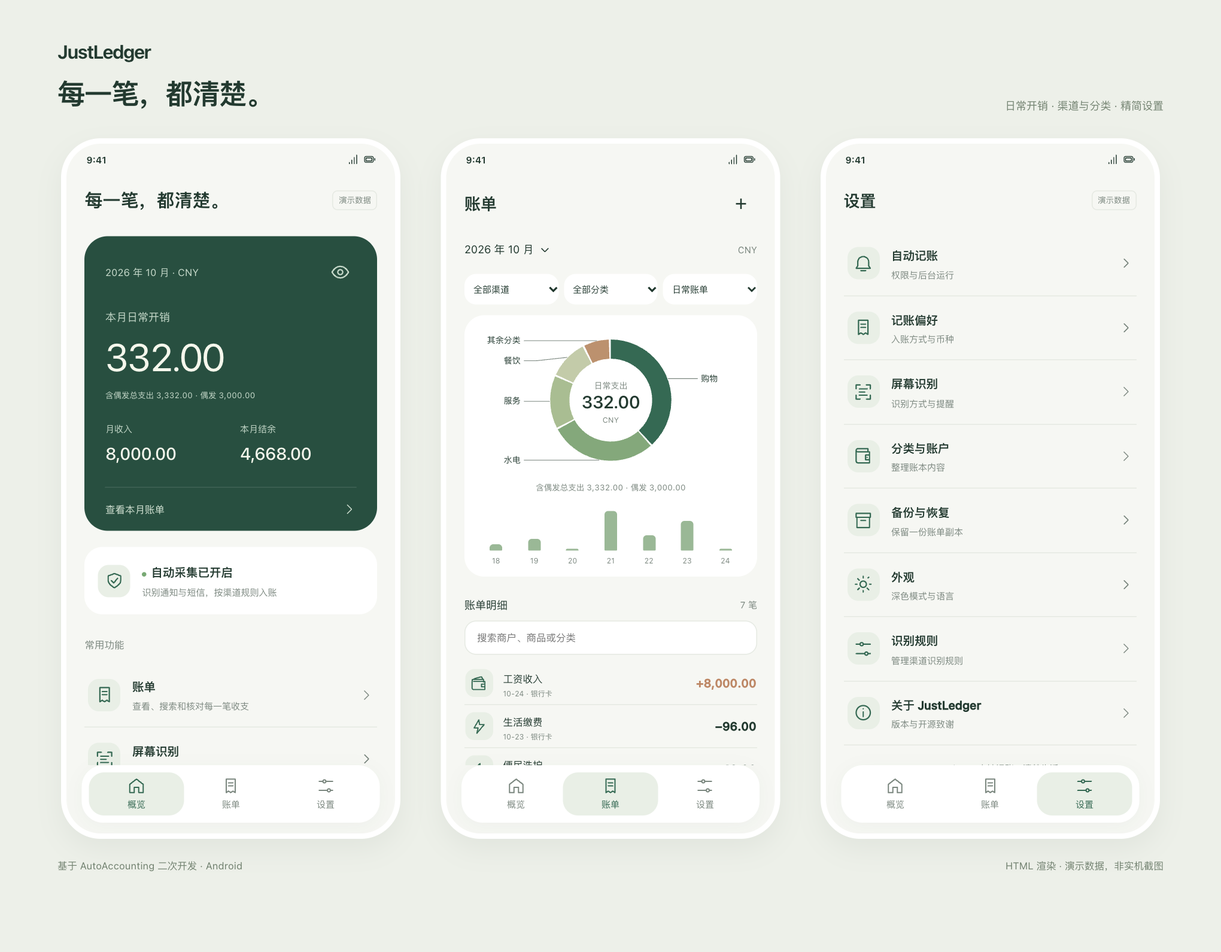
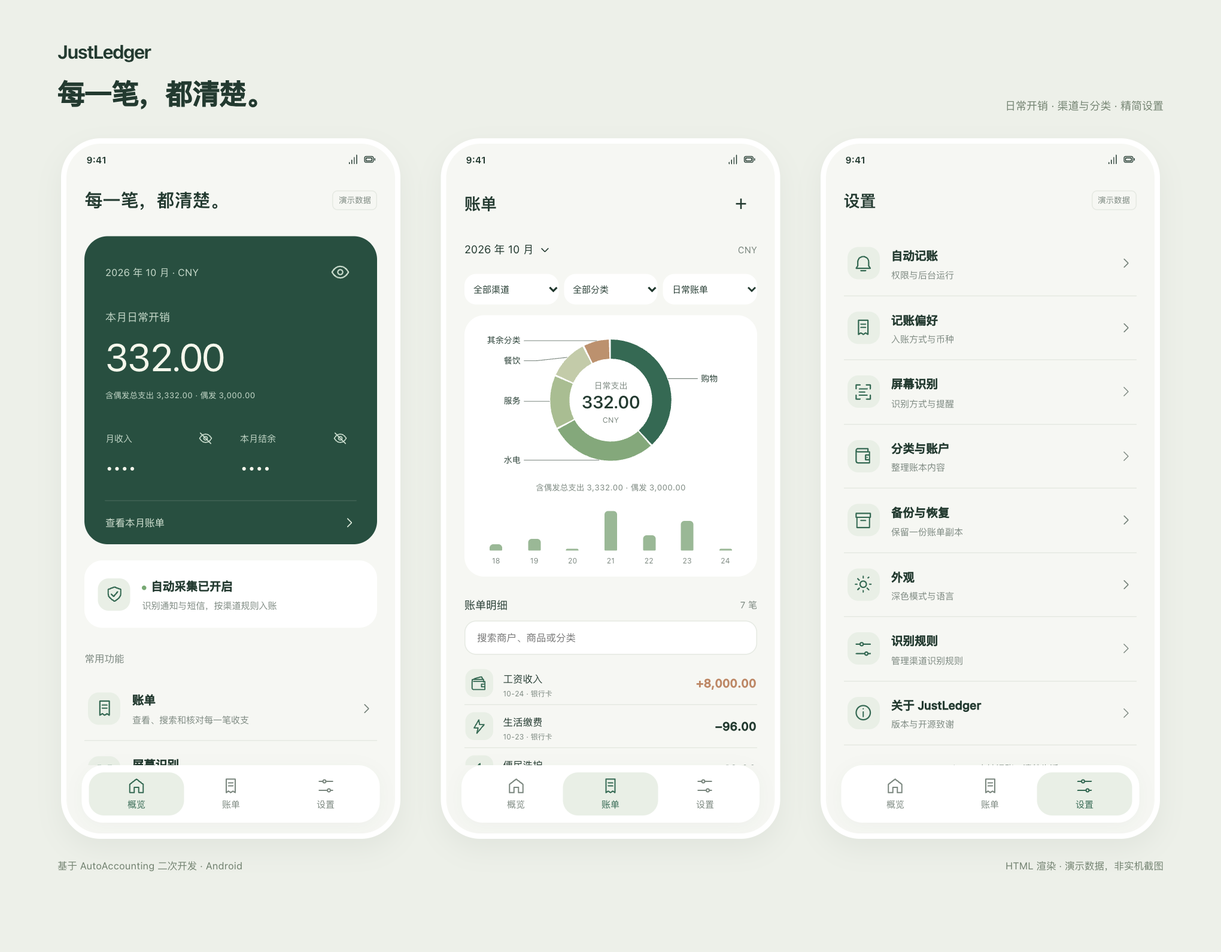
默认隐藏首页收入与结余，支持独立点眼睛查看
- 收入和结余各增加独立眼睛按钮，离开首页或重新进入后恢复隐藏。
- 支出金额保留单独显示控制，避免查看某一项时同时展示其他金额。
- 同步 HTML 演示、README 配图与更新日志，发布正式版本 0.1.2。
- 通过模拟器生命周期和独立开关验证，以及 HTML 交互回归检查。

diff --git a/design/preview.html b/design/preview.html
@@ -11,6 +11,7 @@
 
 .filters{display:flex;gap:6px;margin-bottom:12px}.filters select{min-width:0;flex:1;border:0;border-radius:13px;padding:10px 6px;background:var(--card);color:var(--ink);font-size:10px;cursor:pointer}.pie-chart{display:block;width:100%;height:auto;overflow:visible}.pie-slice,.pie-center{cursor:pointer}.pie-slice circle{transition:stroke-width .2s,transform .2s}.pie-slice:focus-visible{outline:none}.pie-slice:focus-visible circle{filter:brightness(1.25)}.inclusive{font-size:9px;color:var(--muted);text-align:center;margin:3px 0 0;font-variant-numeric:tabular-nums}.hero-inclusive{text-align:left;color:#c6d9ca;margin:-16px 0 24px;white-space:nowrap}.occasional-row{padding:10px 0}.home-title{font-size:20px;margin-bottom:25px}.chart-card{padding-top:7px}.transaction{min-height:48px;padding:6px 1px}.gallery-stage .home-title{margin-bottom:25px}
 .gallery-stage .sheet[data-kind=candidate] .edit-row{min-height:37px}.gallery-stage .sheet[data-kind=candidate] .edit-amount{margin:10px 0 12px}.gallery-stage .sheet[data-kind=candidate] .remark{margin:8px 0}.gallery-stage .sheet[data-kind=candidate] .details{margin:6px 0}.gallery-stage .sheet[data-kind=candidate] .candidate{margin-bottom:8px}
+.metric-label{display:flex;align-items:center;justify-content:space-between;gap:4px}.metric-label .icon-button{width:36px;height:36px;color:#c6d9ca}.metric-label .ico{width:16px;height:16px}.hero-grid b{margin-top:0}
 </style>
 </head>
 <body>
@@ -20,6 +21,7 @@
 <symbol id="settings" viewBox="0 0 24 24"><path d="M3 6h5m4 0h9M3 18h11m4 0h3"/><circle cx="10" cy="6" r="2"/><circle cx="16" cy="18" r="2"/></symbol>
 <symbol id="arrow" viewBox="0 0 24 24"><path d="m9 5 7 7-7 7"/></symbol>
 <symbol id="down" viewBox="0 0 24 24"><path d="m6 9 6 6 6-6"/></symbol>
+<symbol id="eye-off" viewBox="0 0 24 24"><path d="M2 12Q6 5 12 5Q18 5 22 12Q18 19 12 19Q6 19 2 12M3 3l18 18"/><circle cx="12" cy="12" r="3"/></symbol>
 <symbol id="eye" viewBox="0 0 24 24"><path d="M2 12Q6 5 12 5t10 7q-4 7-10 7T2 12Z"/><circle cx="12" cy="12" r="3"/></symbol>
 <symbol id="check" viewBox="0 0 24 24"><path d="M12 3 4 6v6c0 5 8 9 8 9s8-4 8-9V6Z"/><path d="m8 12 3 3 5-6"/></symbol>
 <symbol id="cup" viewBox="0 0 24 24"><path d="M5 8h12v7a5 5 0 0 1-5 5h-2a5 5 0 0 1-5-5ZM17 9h2a3 3 0 0 1 0 6h-2M8 3v2M12 2v3M3 22h16"/></symbol>
@@ -91,14 +93,14 @@ const initialBills=[
 const instances=[];
 function makeDevice(host,page='overview',modal=''){
  const el=document.createElement('section');el.className='device';el.setAttribute('aria-label','JustLedger 演示界面');host.append(el);
- const state={page,channel:'全部',category:'全部',scope:'日常',slice:'',query:'',hidden:false,dark:false,bills:structuredClone(initialBills),modal:'',draft:null,receiptIndex:0,receipts:[1,2],switches:{auto:true,repeat:true,backtap:true,screen:true,ai:true,priority:true,success:true},returnModal:'editor'};
+ const state={page,channel:'全部',category:'全部',scope:'日常',slice:'',query:'',hidden:false,incomeVisible:false,balanceVisible:false,dark:false,bills:structuredClone(initialBills),modal:'',draft:null,receiptIndex:0,receipts:[1,2],switches:{auto:true,repeat:true,backtap:true,screen:true,ai:true,priority:true,success:true},returnModal:'editor'};
  const app={el,state};instances.push(app);render(app);if(modal)openModal(app,modal);bind(app);return app;
 }
 const occasional=b=>b.type==='支出'&&(b.occasional??b.category==='房租');
 function filtered(app,withScope=true){const s=app.state;return s.bills.filter(b=>(s.channel==='全部'||b.channel===s.channel)&&(s.category==='全部'||b.category===s.category)&&(!withScope||s.scope==='全部'||(s.scope==='偶发'?occasional(b):!occasional(b))))}
 function sums(rows){return {expense:rows.filter(x=>x.type==='支出').reduce((s,x)=>s+x.amount,0),income:rows.filter(x=>x.type==='收入').reduce((s,x)=>s+x.amount,0)}}
 function setting(label,desc,symbol,action){return `<button class="setting" data-action="${action}"><span class="tile">${icon(symbol)}</span><span><strong>${label}</strong><small>${desc}</small></span>${icon('arrow','tail')}</button>`}
-function overview(app){const s=app.state,t=sums(s.bills),daily=sums(s.bills.filter(b=>!occasional(b))).expense,show=n=>s.hidden?'••••':money(n);return `<div class="top home-title">每一笔，都清楚。<span class="demo-label">演示数据</span></div><div class="hero"><div class="hero-head"><span>2026 年 10 月 · CNY</span><button class="icon-button" data-action="privacy" aria-label="${s.hidden?'显示':'隐藏'}金额" aria-pressed="${s.hidden}">${icon('eye')}</button></div><div class="label">本月日常开销</div><div class="total">${show(daily)}</div><div class="inclusive hero-inclusive">含偶发总支出 ${show(t.expense)} · 偶发 ${show(t.expense-daily)}</div><div class="hero-grid"><div><small>月收入</small><b>${show(t.income)}</b></div><div><small>本月结余</small><b>${show(t.income-t.expense)}</b></div></div><button class="hero-link" data-page="bills">查看本月账单${icon('arrow')}</button></div><button class="service-state" data-action="capture"><span class="tile">${icon('check')}</span><span><strong><i class="dot"></i>自动采集已开启</strong><small>识别通知与短信，按渠道规则入账</small></span></button><div class="caption">常用功能</div>${setting('账单','查看、搜索和核对每一笔收支','bill','bills')}${setting('屏幕识别','轻敲背面，补充订单信息','scan','screen')}<p class="quiet">记录留在本机，生活留给自己。</p>`}
+function overview(app){const s=app.state,t=sums(s.bills),daily=sums(s.bills.filter(b=>!occasional(b))).expense,show=n=>s.hidden?'••••':money(n);return `<div class="top home-title">每一笔，都清楚。<span class="demo-label">演示数据</span></div><div class="hero"><div class="hero-head"><span>2026 年 10 月 · CNY</span><button class="icon-button" data-action="privacy" aria-label="${s.hidden?'显示':'隐藏'}支出金额" aria-pressed="${!s.hidden}">${icon(s.hidden?'eye-off':'eye')}</button></div><div class="label">本月日常开销</div><div class="total">${show(daily)}</div><div class="inclusive hero-inclusive">含偶发总支出 ${show(t.expense)} · 偶发 ${show(t.expense-daily)}</div><div class="hero-grid"><div><div class="metric-label"><small>月收入</small><button class="icon-button" data-action="income-privacy" aria-label="${s.incomeVisible?'隐藏':'显示'}月收入金额" aria-pressed="${s.incomeVisible}">${icon(s.incomeVisible?'eye':'eye-off')}</button></div><b class="income-amount">${s.incomeVisible?money(t.income):'••••'}</b></div><div><div class="metric-label"><small>本月结余</small><button class="icon-button" data-action="balance-privacy" aria-label="${s.balanceVisible?'隐藏':'显示'}本月结余金额" aria-pressed="${s.balanceVisible}">${icon(s.balanceVisible?'eye':'eye-off')}</button></div><b class="balance-amount">${s.balanceVisible?money(t.income-t.expense):'••••'}</b></div></div><button class="hero-link" data-page="bills">查看本月账单${icon('arrow')}</button></div><button class="service-state" data-action="capture"><span class="tile">${icon('check')}</span><span><strong><i class="dot"></i>自动采集已开启</strong><small>识别通知与短信，按渠道规则入账</small></span></button><div class="caption">常用功能</div>${setting('账单','查看、搜索和核对每一笔收支','bill','bills')}${setting('屏幕识别','轻敲背面，补充订单信息','scan','screen')}<p class="quiet">记录留在本机，生活留给自己。</p>`}
 function pie(app,expenses){
  const s=app.state,total=sums(expenses).expense;
  let cats=[...new Set(expenses.map(b=>b.category))].map(name=>({name,sum:expenses.filter(b=>b.category===name).reduce((n,b)=>n+b.amount,0)})).sort((a,b)=>b.sum-a.sum);
@@ -129,21 +131,23 @@ function paintModal(app){$('.overlay',app.el)?.remove();const s=app.state,kind=s
  else if(kind==='recording'){title='记账偏好';body=switches(app,[['auto','自动入账','开启后直接入账并提醒；关闭后先核对'],['repeat','重复识别','开启后合并同一交易的多渠道记录']])+'<p class="hint">金额不单独判重，疑似记录需你确认。</p>'}
  else if(kind==='capture'){title='自动记账';body=['通知读取','短信接收','无障碍屏幕识别','悬浮窗提醒'].map((x,i)=>`<div class="switch-row"><span><strong>${x}</strong><small>${['读取完整付款通知并匹配渠道规则','接收新短信，需对应银行规则','用于读取当前页面及截图 OCR','入账后展示待确认提醒'][i]}</small></span><span style="color:var(--green);margin-left:auto;font-size:11px">已开启</span></div>`).join('')+'<p class="hint">演示状态。实际效果取决于手机权限、消息内容和规则适配。</p>'}
  else if(kind==='catalog'){title='分类与账户';body=setting('支出分类','23 个常用分类，含房租','bag','catalog-categories')+setting('账户','按实际付款账户整理','wallet','accounts')+setting('账本','默认本地账本','bill','books')}
- else {const map={backup:['备份与恢复','账单保存在手机应用私有目录。\n请在 App 内导出备份；卸载前先备份。'],rules:['识别规则','管理通知与短信渠道规则。\n本人理财本金赎回不记账，单独到账的收益可识别。'],remembered:['页面识别偏好','记住的是页面类型，用于自动触发 OCR。\n同一订单的重复识别由独立去重机制处理。'],accounts:['账户','示例账户：零钱、余额、生活卡。\n账户名称只是记账标签，不连接银行卡。'],books:['账本','当前为默认本地账本。'],about:['关于 JustLedger','JustLedger 0.1.1\n基于 AutoAccounting 二次开发。\n遵循 GPL-3.0，保留上游版权。\n这是 HTML 演示，非实机截图。']};const info=map[kind]||['说明','当前页面使用演示数据。'];title=info[0];body=`<p class="hint" style="white-space:pre-line">${esc(info[1])}</p>`}
+ else {const map={backup:['备份与恢复','账单保存在手机应用私有目录。\n请在 App 内导出备份；卸载前先备份。'],rules:['识别规则','管理通知与短信渠道规则。\n本人理财本金赎回不记账，单独到账的收益可识别。'],remembered:['页面识别偏好','记住的是页面类型，用于自动触发 OCR。\n同一订单的重复识别由独立去重机制处理。'],accounts:['账户','示例账户：零钱、余额、生活卡。\n账户名称只是记账标签，不连接银行卡。'],books:['账本','当前为默认本地账本。'],about:['关于 JustLedger','JustLedger 0.1.2\n基于 AutoAccounting 二次开发。\n遵循 GPL-3.0，保留上游版权。\n这是 HTML 演示，非实机截图。']};const info=map[kind]||['说明','当前页面使用演示数据。'];title=info[0];body=`<p class="hint" style="white-space:pre-line">${esc(info[1])}</p>`}
  sheet.innerHTML=(header?`<div class="sheet-head"><span>${title}</span><button class="icon-button" data-action="close" aria-label="关闭">${icon('close')}</button></div>`:'')+body;
 }
 function stash(app){const s=app.state,form=$('.sheet',app.el);if(!s.draft||!form||!$('input[name=amount]',form))return;const b=s.draft;for(const k of ['merchant','item','channel','remark','type']){const el=$(`[name=${k}]`,form);if(el)b[k]=el.value}b.amount=Number($('[name=amount]',form).value);const date=$('[name=date]',form).value;if(date){b.day=Number(date.slice(8,10));b.time=date.slice(11).padEnd(8,':00')}}
 function toast(app,text){$('.toast',app.el)?.remove();const t=document.createElement('div');t.className='toast';t.setAttribute('role','status');t.textContent=text;app.el.append(t);setTimeout(()=>t.remove(),2600)}
 function bind(app){app.el.addEventListener('change',e=>{if(e.target.dataset.filter){app.state[e.target.dataset.filter]=e.target.value;app.state.slice='';render(app)}else if(e.target.name==='type'){stash(app);paintModal(app)}});let hold,pressStart,held=false;const stop=()=>clearTimeout(hold);app.el.addEventListener('pointerdown',e=>{const row=e.target.closest('[data-bill]');held=false;if(!row||e.button!==0)return;pressStart=[e.clientX,e.clientY];hold=setTimeout(()=>{held=true;openModal(app,'delete',app.state.bills.find(x=>x.id===Number(row.dataset.bill)))},600)});app.el.addEventListener('pointermove',e=>{if(pressStart&&Math.hypot(e.clientX-pressStart[0],e.clientY-pressStart[1])>8)stop()});for(const ev of ['pointerup','pointercancel','pointerleave'])app.el.addEventListener(ev,stop);app.el.addEventListener('contextmenu',e=>{const row=e.target.closest('[data-bill]');if(row){e.preventDefault();stop();openModal(app,'delete',app.state.bills.find(x=>x.id===Number(row.dataset.bill)))}});app.el.addEventListener('input',e=>{if(e.target.matches('.search')){app.state.query=e.target.value;$('.transactions',app.el).innerHTML=billRows(app);$('.row-count',app.el).textContent=filtered(app).filter(b=>[b.merchant,b.item,b.category].join(' ').includes(app.state.query)).length+' 笔'}});let touchX=0;app.el.addEventListener('touchstart',e=>{touchX=e.touches[0].clientX},{passive:true});app.el.addEventListener('touchend',e=>{if(app.state.modal!=='receipt')return;const delta=e.changedTouches[0].clientX-touchX;if(Math.abs(delta)>55){app.state.receiptIndex=Math.max(0,Math.min(app.state.receipts.length-1,app.state.receiptIndex+(delta<0?1:-1)));paintModal(app)}},{passive:true});app.el.addEventListener('click',e=>{if(held){held=false;return}const slice=e.target.closest('[data-slice]');if(slice){app.state.slice=app.state.slice===slice.dataset.slice?'':slice.dataset.slice;const scroll=$('.viewport',app.el).scrollTop;render(app);$('.viewport',app.el).scrollTop=scroll;return}const b=e.target.closest('button');if(!b)return;const s=app.state;
- if(b.dataset.page){s.page=b.dataset.page;s.modal='';render(app);return}
+ if(b.dataset.page){s.incomeVisible=false;s.balanceVisible=false;s.page=b.dataset.page;s.modal='';render(app);return}
  if(b.dataset.channel){s.channel=b.dataset.channel;render(app);return}
  if(b.dataset.bill){openModal(app,'editor',s.bills.find(x=>x.id===Number(b.dataset.bill)));return}
  if(b.dataset.switch){s.switches[b.dataset.switch]=!s.switches[b.dataset.switch];paintModal(app);return}
  if(b.dataset.category){s.draft.category=b.dataset.category;paintModal(app);return}
  const a=b.dataset.action;if(!a)return;
  if(a==='toggle-occasional'){stash(app);s.draft.occasional=!occasional(s.draft);paintModal(app)}
+ else if(a==='income-privacy'){s.incomeVisible=!s.incomeVisible;render(app)}
+ else if(a==='balance-privacy'){s.balanceVisible=!s.balanceVisible;render(app)}
  else if(a==='privacy'){s.hidden=!s.hidden;render(app)}
- else if(a==='bills'){s.page='bills';render(app)}
+ else if(a==='bills'){s.incomeVisible=false;s.balanceVisible=false;s.page='bills';render(app)}
  else if(a==='theme'){s.dark=!s.dark;render(app)}
  else if(a==='close'){s.modal='';paintModal(app)}
  else if(a==='new')openModal(app,'editor');
@@ -166,6 +170,7 @@ function bind(app){app.el.addEventListener('change',e=>{if(e.target.dataset.filt
 const gallery=new URLSearchParams(location.search).get('gallery');
 if(gallery){const titles=gallery==='recognition'?['信息不完整，也能补齐。','订单核对 · 入账确认 · AI 配置']:gallery==='occasional'?['日常与偶发，分开看。','开销筛选 · 分类点选 · 房租编辑']:['每一笔，都清楚。','日常开销 · 渠道与分类 · 精简设置'];$('#stage').className='gallery-stage';$('#stage').innerHTML=`<header class="gallery-header"><div><div class="brand">JustLedger</div><h1>${titles[0]}</h1></div><p>${titles[1]}</p></header><div class="gallery-grid"></div><footer class="gallery-caption"><span>基于 AutoAccounting 二次开发 · Android</span><span>HTML 渲染 · 演示数据，非实机截图</span></footer>`;const host=$('.gallery-grid');if(gallery==='recognition'){makeDevice(host,'bills','candidate');makeDevice(host,'overview','receipt');makeDevice(host,'settings','ai')}else if(gallery==='occasional'){const daily=makeDevice(host,'bills');const all=makeDevice(host,'bills');all.state.scope='全部';all.state.slice='房租';render(all);const edit=makeDevice(host,'bills');edit.state.scope='偶发';render(edit);openModal(edit,'editor',edit.state.bills.find(b=>b.id===8))}else{makeDevice(host,'overview');makeDevice(host,'bills');makeDevice(host,'settings')}}
 else{const app=makeDevice($('#mount'));$$('[data-demo]').forEach(b=>b.addEventListener('click',()=>{if(b.dataset.demo==='receipt'&&!app.state.receipts.length)app.state.receipts=[1,2];openModal(app,b.dataset.demo)}));$('#theme-toggle').addEventListener('click',()=>{app.state.dark=!app.state.dark;render(app)})}
+document.addEventListener('visibilitychange',()=>{if(document.hidden)for(const app of instances){app.state.incomeVisible=false;app.state.balanceVisible=false;if(app.state.page==='overview')render(app)}});
 window.JustLedgerPreview={instances,openModal,render};
 </script>
 </body></html>

diff --git a/app/src/main/java/net/ankio/auto/ui/fragment/components/MonthlyCardComponent.kt b/app/src/main/java/net/ankio/auto/ui/fragment/components/MonthlyCardComponent.kt
@@ -34,6 +34,8 @@ class MonthlyCardComponent(binding: CardMonthlyBinding) : BaseComponent<CardMont
     private var onNavigateToBills: (() -> Unit)? = null
     private var refreshJob: Job? = null
     private var totals: Map<String, Double>? = null
+    private var incomeVisible = false
+    private var balanceVisible = false
 
     fun setOnNavigateToBills(callback: () -> Unit) = apply {
         onNavigateToBills = callback
@@ -44,36 +46,50 @@ class MonthlyCardComponent(binding: CardMonthlyBinding) : BaseComponent<CardMont
         binding.privacyToggle.setOnClickListener {
             PrefManager.homePrivacyMode = !PrefManager.homePrivacyMode
             renderAmounts()
-            binding.privacyToggle.announceForAccessibility(context.getString(
-                if (PrefManager.homePrivacyMode) R.string.ledger_privacy_hidden
-                else R.string.ledger_privacy_visible
-            ))
         }
+        binding.incomePrivacyToggle.setOnClickListener {
+            incomeVisible = !incomeVisible
+            renderAmounts()
+        }
+        binding.balancePrivacyToggle.setOnClickListener {
+            balanceVisible = !balanceVisible
+            renderAmounts()
+        }
+        renderAmounts()
         binding.btnBills.setOnClickListener { onNavigateToBills?.invoke() }
         binding.btnSync.setOnClickListener { BillTool.syncBills() }
     }
 
     private fun renderAmounts() {
         val stats = totals
-        fun amount(value: Double): String = when {
-            PrefManager.homePrivacyMode -> "••••"
+        fun amount(value: Double, hidden: Boolean = PrefManager.homePrivacyMode): String = when {
+            hidden -> "••••"
             stats == null -> "—"
             else -> BillTool.formatAmount(value)
         }
         val income = stats?.get("income") ?: 0.0
         val expense = stats?.get("expense") ?: 0.0
-        binding.tvIncomeAmount.text = amount(income)
+        binding.tvIncomeAmount.text = amount(income, !incomeVisible)
         binding.tvExpenseAmount.text = amount(expense)
         val totalExpense = stats?.get("totalExpense") ?: expense
         val occasional = stats?.get("occasionalExpense") ?: 0.0
         binding.totalExpenseHint.text = "含偶发总支出 ${amount(totalExpense)} · 偶发 ${amount(occasional)}"
         binding.totalExpenseHint.visibility = if (stats != null) View.VISIBLE else View.GONE
-        binding.tvBalanceAmount.text = amount(income - totalExpense)
-        binding.privacyToggle.isSelected = PrefManager.homePrivacyMode
+        binding.tvBalanceAmount.text = amount(income - totalExpense, !balanceVisible)
+        fun eye(button: com.google.android.material.button.MaterialButton, visible: Boolean, show: Int, hide: Int) {
+            button.isSelected = visible
+            button.contentDescription = context.getString(if (visible) hide else show)
+            button.setIconResource(if (visible) R.drawable.ledger_eye else R.drawable.ledger_eye_off)
+        }
+        eye(binding.privacyToggle, !PrefManager.homePrivacyMode, R.string.ledger_show_expense, R.string.ledger_hide_expense)
+        eye(binding.incomePrivacyToggle, incomeVisible, R.string.ledger_show_income, R.string.ledger_hide_income)
+        eye(binding.balancePrivacyToggle, balanceVisible, R.string.ledger_show_balance, R.string.ledger_hide_balance)
     }
 
     override fun onComponentResume() {
         super.onComponentResume()
+        incomeVisible = false
+        balanceVisible = false
         binding.btnSync.visibility = if (PrefManager.bookApp != BuildConfig.APPLICATION_ID) View.VISIBLE else View.GONE
         val now = Calendar.getInstance()
         val year = now.get(Calendar.YEAR)
@@ -94,6 +110,9 @@ class MonthlyCardComponent(binding: CardMonthlyBinding) : BaseComponent<CardMont
 
     override fun onComponentStop() {
         refreshJob?.cancel()
+        incomeVisible = false
+        balanceVisible = false
+        renderAmounts()
         super.onComponentStop()
     }
 

diff --git a/app/src/main/java/net/ankio/auto/utils/PrefManager.kt b/app/src/main/java/net/ankio/auto/utils/PrefManager.kt
@@ -888,7 +888,7 @@ object PrefManager {
         get() = getString("canary_warning_version", "")
         set(value) = putString("canary_warning_version", value)
 
-    /** 首页隐私模式 - 是否隐藏首页收支金额 */
+    /** 首页支出隐私模式；收入与结余仅在当前页面临时展示 */
     var homePrivacyMode: Boolean
         get() = getBoolean("home_privacy_mode", false)
         set(value) = putBoolean("home_privacy_mode", value)

diff --git a/tests/device/monthly_privacy.py b/tests/device/monthly_privacy.py
@@ -1,0 +1,64 @@
+"""Monthly income/balance privacy on an isolated emulator with completed onboarding.
+Requires ADB, ANDROID_SERIAL and adb forward tcp:52046 tcp:52045.
+Creates labelled income/expense fixtures; restores expense privacy and removes its fixtures.
+"""
+import time,unittest
+from ocr_enrichment import api
+from delete_confirmation import adb,tree,node,tap
+P='net.ankio.auto:id/'
+
+class MonthlyPrivacyTests(unittest.TestCase):
+ def setUp(self):
+  self.ids=[];self.mark='JL_PRIVACY_'+str(time.time_ns())
+  self.oldHidden=None
+  self.addCleanup(self.cleanup)
+  self.open(restart=True)
+  self.oldHidden=node(rid=P+'privacyToggle').get('content-desc')=='显示支出金额'
+  if self.oldHidden:self.click('privacyToggle')
+  for kind,category,amount in [('Income','工资',8000),('Expend','餐饮',332),('Expend','房租',3000)]:
+   r=api('/bill/put',dict(type=kind,cateName=category,money=amount,state='Edited',currency='CNY',bookName='默认账本',time=int(time.time()*1000),shopName=self.mark,remark=self.mark))
+   self.assertEqual(200,r['code']);self.ids.append(r['data'])
+  self.open(restart=True)
+ def cleanup(self):
+  for identity in self.ids:
+   b=api('/bill/get?id='+str(identity)).get('data')
+   if b and b.get('remark')==self.mark:api('/bill/remove',{'id':identity})
+  if self.oldHidden is not None:
+   self.open()
+   hidden=node(rid=P+'privacyToggle').get('content-desc')=='显示支出金额'
+   if hidden!=self.oldHidden:self.click('privacyToggle')
+ def open(self,restart=False):
+  if restart:adb('shell','am','force-stop','net.ankio.auto')
+  adb('shell','am','start','-W','-n','net.ankio.auto/.ui.activity.MainActivity')
+  tap(node(rid=P+'homeFragment'))
+  for attempt in range(15):
+   if node(rid=P+'tvExpenseAmount').get('text')!='—':break
+   if attempt==14:self.fail('Monthly totals did not load')
+   time.sleep(.2)
+ def snapshot(self):
+  return {n.get('resource-id','').removeprefix(P):n for n in tree().iter('node') if n.get('resource-id','').startswith(P)}
+ def assertAmounts(self,income,balance,expense='332.00'):
+  nodes=self.snapshot()
+  for key,value in [('tvIncomeAmount',income),('tvBalanceAmount',balance),('tvExpenseAmount',expense)]:
+   self.assertEqual(value,nodes[key].get('text').replace(',',''),key)
+ def click(self,name):tap(node(rid=P+name))
+ def reveal(self):
+  self.click('incomePrivacyToggle');self.click('balancePrivacyToggle')
+  self.assertAmounts('8000.00','4668.00')
+ def test_defaults_independent_eyes_and_expense_toggle(self):
+  self.assertAmounts('••••','••••')
+  self.assertEqual('显示月收入金额',node(rid=P+'incomePrivacyToggle').get('content-desc'))
+  self.click('incomePrivacyToggle');self.assertAmounts('8000.00','••••')
+  self.assertEqual('隐藏月收入金额',node(rid=P+'incomePrivacyToggle').get('content-desc'))
+  self.click('balancePrivacyToggle');self.assertAmounts('8000.00','4668.00')
+  self.click('incomePrivacyToggle');self.assertAmounts('••••','4668.00')
+  self.click('privacyToggle');self.assertAmounts('••••','4668.00','••••')
+  self.assertNotIn('3332',node(rid=P+'totalExpenseHint').get('text').replace(',',''))
+  self.click('balancePrivacyToggle');self.assertAmounts('••••','••••','••••')
+  self.click('privacyToggle');self.assertAmounts('••••','••••')
+ def test_tab_background_and_restart_reset_secondary_amounts(self):
+  self.reveal();self.click('orderFragment');self.click('homeFragment');self.assertAmounts('••••','••••')
+  self.reveal();adb('shell','input','keyevent','3');self.open();self.assertAmounts('••••','••••')
+  self.reveal();self.open(restart=True);self.assertAmounts('••••','••••')
+
+if __name__=='__main__':unittest.main(verbosity=2)

diff --git a/README.md b/README.md
@@ -6,7 +6,7 @@
 
 ## 界面预览
 
-暖白与森林绿、圆角卡片、分类图标与简洁账单行，支持深色模式。
+暖白与森林绿、圆角卡片、分类图标与简洁账单行，支持深色模式。首页月收入和结余默认隐藏，点击各自的眼睛临时查看，离开首页后恢复隐藏。
 
 ![概览、账单与设置](docs/images/overview.png)
 
@@ -39,7 +39,7 @@
 
 支持 Android 10 及以上；无障碍截图需要 Android 11 及以上，推荐 Android 11+ 的 arm64 真机。
 
-当前正式版使用 Release 构建，目前沿用原开发签名以支持已安装版本覆盖更新。应用 ID 保留 `net.ankio.auto`，与上游相同。若已装上游且签名不同，无法共存或直接覆盖，**请先备份再处理冲突**；同签名 JustLedger 更新可覆盖安装保留数据。App 内显示版本与仓库发布版本统一为 `0.1.1`。
+当前正式版使用 Release 构建，目前沿用原开发签名以支持已安装版本覆盖更新。应用 ID 保留 `net.ankio.auto`，与上游相同。若已装上游且签名不同，无法共存或直接覆盖，**请先备份再处理冲突**；同签名 JustLedger 更新可覆盖安装保留数据。App 内显示版本与仓库发布版本统一为 `0.1.2`。
 
 ### 付款通知记账
 

diff --git a/design/README.md b/design/README.md
@@ -1,6 +1,6 @@
 # JustLedger 界面预览
 
-`preview.html` 是独立交互演示，与 0.1.1 界面同步：概览保留单一标题，展示日常开销及含偶发总额、渠道与分类下拉筛选、日常／偶发／全部切换、可点选并带引线的分类图表、房租与偶发支出编辑、疑似重复、分页入账确认、三项 AI 配置及页面识别偏好。数据全部虚构，不访问支付账户或模型服务，不保存密钥。
+`preview.html` 是独立交互演示，与 0.1.2 界面同步：概览保留单一标题，收入和结余默认隐藏并可独立点眼睛查看，展示日常开销及含偶发总额、渠道与分类下拉筛选、日常／偶发／全部切换、可点选并带引线的分类图表、房租与偶发支出编辑、疑似重复、分页入账确认、三项 AI 配置及页面识别偏好。数据全部虚构，不访问支付账户或模型服务，不保存密钥。
 
 ## 打开
 

diff --git a/CHANGELOG.md b/CHANGELOG.md
@@ -1,5 +1,10 @@
 # 更新日志
 
+## 0.1.2 · 2026-10-30
+
+- 首页月收入和本月结余默认隐藏，支持分别点击眼睛查看。
+- 离开首页或重新打开 App 后，收入和结余恢复隐藏。
+
 ## 0.1.1 · 2026-10-29
 
 - 精简首页标题，顶部直接显示“每一笔，都清楚”。
